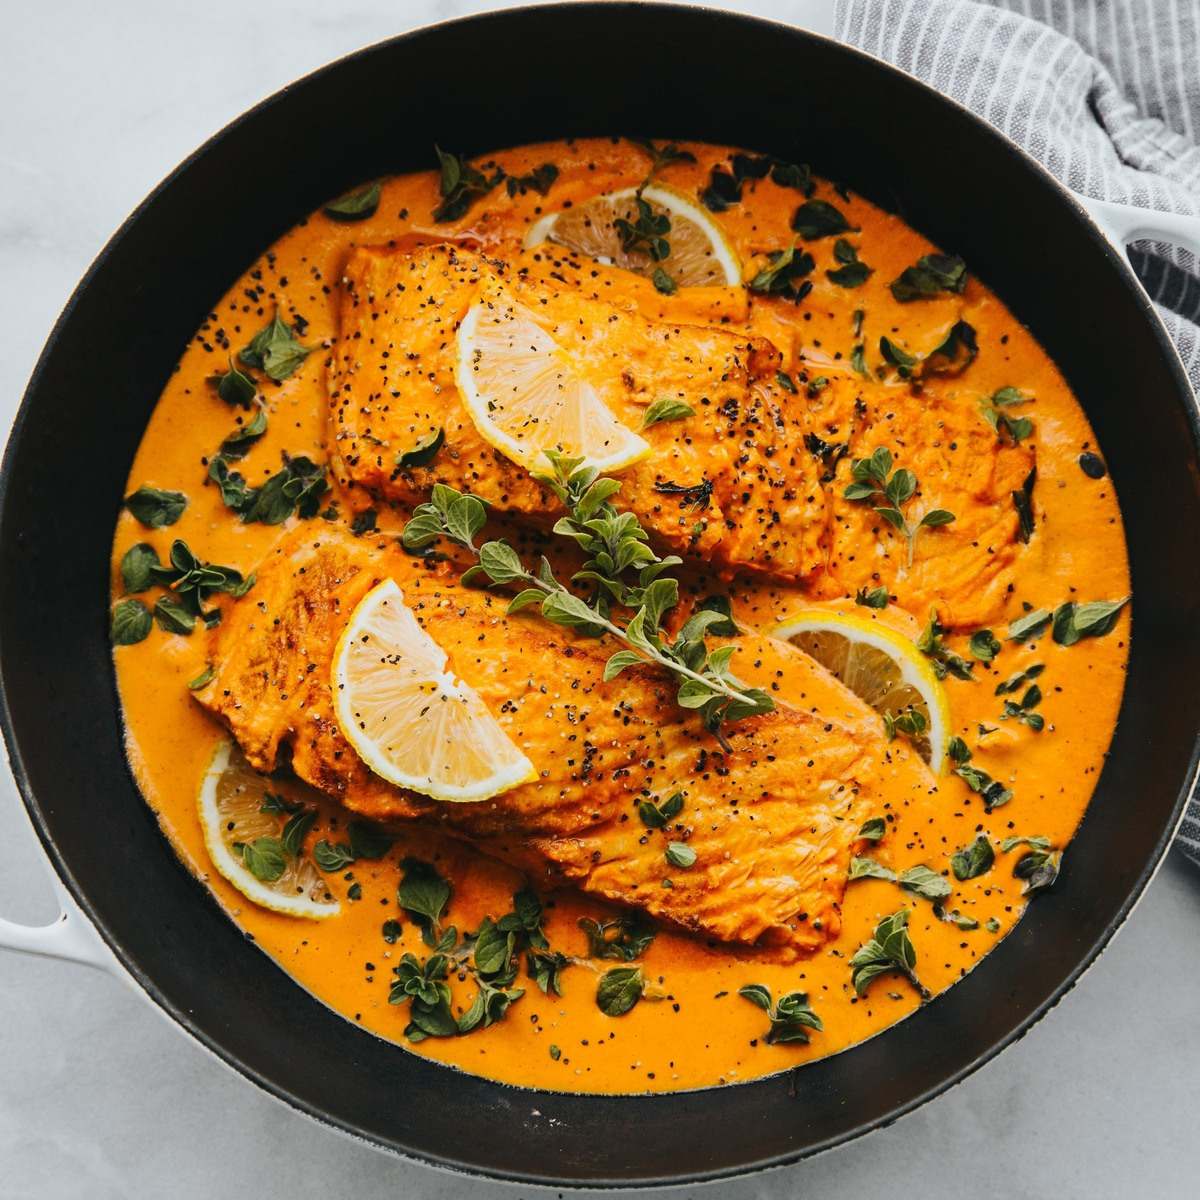
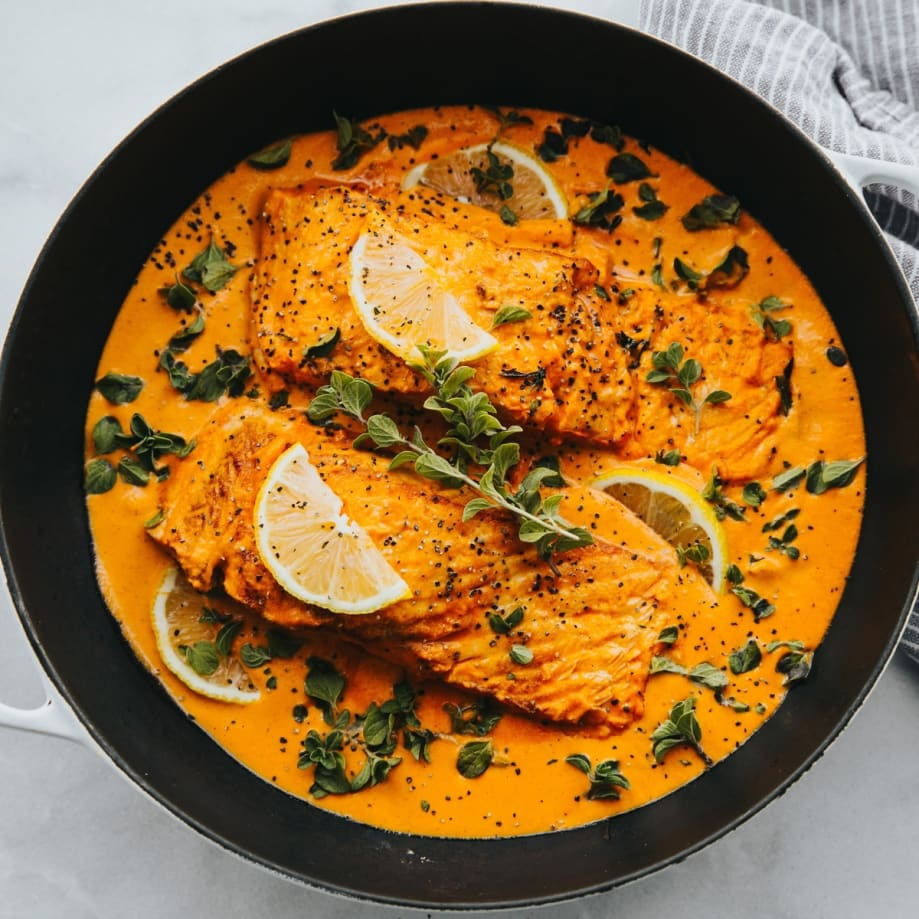
more break points made with https://www.responsivebreakpoints.com/

diff --git a/index.html b/index.html
@@ -27,10 +27,14 @@
       src="./images/meal.jpg"
       alt="A bowl of salmon and curry."
       srcset="
-        ./images/meal.jpg     400w,
-        ./images/meal@2x.jpg  800w,
-        ./images/meal@3x.jpg 1200w
+        ./images/meal.jpg     200w,
+        ./images/meal@2x.jpg  530w,
+        ./images/meal@3x.jpg  919w,
+        ./images/meal@4x.jpg 1076w,
+        ./images/meal@5x.jpg 1200w
       "
+      sizes="
+      (max-width: 1200px) 100vw, 1200px"
     />
 
     <!-- <span class="bg-astronaut"></span>

diff --git a/css/style.css b/css/style.css
@@ -6,9 +6,9 @@ body {
   background-size: cover;
   background-attachment: fixed; */
 }
-img {
+/* img {
   width: 100vw;
-}
+} */
 /* img.solar {
   width: 100px;
   height: 100px;
